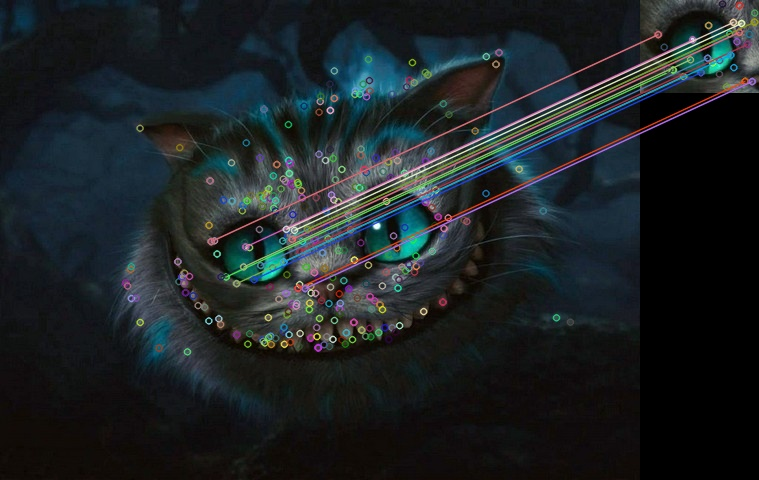
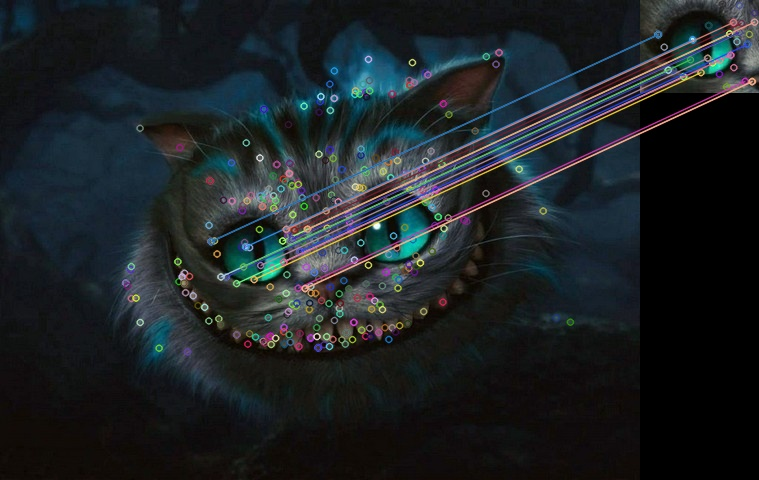
finish

diff --git a/PythonComparisonImage/UI/image_classification_tab.py b/PythonComparisonImage/UI/image_classification_tab.py
@@ -1,0 +1,159 @@
+import os
+
+import cv2 as cv
+import numpy as np
+from PyQt5.QtWidgets import (QWidget, QVBoxLayout, QHBoxLayout, QPushButton, QListWidget, QLabel, QFileDialog,
+                             QMessageBox, QComboBox)
+
+import src.open_cv.ncc as ncc
+import src.open_cv.sift as sift
+import src.open_cv.ssim as ssim
+import src.open_cv.image_hash as image_hash
+
+
+class ImageClassificationTab(QWidget):
+    def __init__(self):
+        super().__init__()
+        self.patternsList = None
+        self.originalsList = None
+        self.patternsLayout = None
+        self.originalsLayout = None
+        self.layout = None
+        self.algorithmSelector = None
+        self.originalImages = []
+        self.patterns = {}
+        self.selectedAlgorithm = 'NCC'
+        self.initUI()
+
+    def initUI(self):
+        self.layout = QHBoxLayout()
+
+        self.originalsLayout = QVBoxLayout()
+        self.patternsLayout = QVBoxLayout()
+
+        self.originalsList = QListWidget()
+        self.patternsList = QListWidget()
+
+        self.originalsList.clicked.connect(self.onOriginalClicked)
+
+        addOriginalBtn = QPushButton("+")
+        addOriginalBtn.setFixedSize(30, 30)
+        addOriginalBtn.clicked.connect(self.addOriginalImage)
+
+        originalsHeaderLayout = QHBoxLayout()
+        originalsHeaderLayout.addWidget(QLabel("Оригиналы"))
+        originalsHeaderLayout.addWidget(addOriginalBtn)
+        originalsHeaderLayout.addStretch()
+
+        addPatternBtn = QPushButton("+")
+        addPatternBtn.setFixedSize(30, 30)
+
+        self.algorithmSelector = QComboBox()
+        self.algorithmSelector.addItems(['NCC', 'SSIM', 'SIFT', 'Hash'])
+        self.algorithmSelector.currentTextChanged.connect(self.algorithmChanged)
+        self.algorithmSelector.setFixedWidth(100)
+
+        patternsHeaderLayout = QHBoxLayout()
+        patternsHeaderLayout.addWidget(QLabel("Паттерны"))
+        patternsHeaderLayout.addWidget(addPatternBtn)
+        patternsHeaderLayout.addWidget(self.algorithmSelector)
+        patternsHeaderLayout.addStretch()
+
+        addPatternBtn.clicked.connect(self.addPatternImage)
+
+        self.originalsLayout.addLayout(originalsHeaderLayout)
+        self.originalsLayout.addWidget(self.originalsList)
+
+        self.patternsLayout.addLayout(patternsHeaderLayout)
+        self.patternsLayout.addWidget(self.patternsList)
+
+        self.layout.addLayout(self.originalsLayout)
+        self.layout.addLayout(self.patternsLayout)
+
+        self.setLayout(self.layout)
+
+    def addOriginalImage(self):
+        fileName, _ = QFileDialog.getOpenFileName(self, "Выберите изображение", "",
+                                                  "Image Files (*.png *.jpg *.jpeg *.bmp)")
+        if fileName:
+            relativePath = os.path.relpath(fileName)
+            self.originalImages.append(relativePath)
+            self.originalsList.addItem(relativePath)
+            self.patterns[relativePath] = []
+
+    def onOriginalClicked(self):
+        self.patternsList.clear()
+        currentItem = self.originalsList.currentItem()
+        if currentItem:
+            patterns = self.patterns.get(currentItem.text(), [])
+            self.patternsList.addItems(patterns)
+
+    def addPatternImage(self):
+        currentItem = self.originalsList.currentItem()
+        if not currentItem:
+            QMessageBox.warning(self, "Внимание", "Сначала выберите оригинальное изображение.")
+            return
+        fileName, _ = QFileDialog.getOpenFileName(self, "Выберите паттерн", "",
+                                                  "Image Files (*.png *.jpg *.jpeg *.bmp)")
+        if fileName:
+            relativePath = os.path.relpath(fileName)
+            patternValue = self.calculatePatternValue(currentItem.text(), relativePath)
+            patternLabel = f"{relativePath} - {patternValue:.2f}"
+            patterns = self.patterns.get(currentItem.text(), [])
+            self.patterns[currentItem.text()].append(patternLabel)
+            patterns.sort(key=lambda x: float(x.split(' - ')[1]), reverse=True)
+            self.patterns[currentItem.text()] = patterns
+            self.updatePatternListDisplay()
+
+    def algorithmChanged(self, value):
+        self.selectedAlgorithm = value
+        self.recalculatePatterns()
+
+    def calculatePatternValue(self, originalImage, patternPath):
+        originalImageItem = cv.imread(originalImage)
+        originalHeight, originalWidth = originalImageItem.shape[:2]
+        patternItem = cv.imread(patternPath)
+        patternHeight, patternWidth = patternItem.shape[:2]
+
+        if self.selectedAlgorithm == 'NCC':
+            if originalWidth >= patternWidth and originalHeight >= patternHeight:
+                return ncc.match(originalImageItem, patternItem)
+            else:
+                return 0
+        elif self.selectedAlgorithm == 'SIFT':
+            return sift.match(originalImageItem, patternItem)
+        elif self.selectedAlgorithm == 'SSIM':
+            if originalWidth == patternWidth and originalHeight == patternHeight:
+                return ssim.match(originalImageItem, patternItem)
+            else:
+                return 0
+        elif self.selectedAlgorithm == 'Hash':
+            a_hash = np.abs(image_hash.average_hash(originalImage) - image_hash.average_hash(patternPath))
+            p_hash = np.abs(image_hash.perceptual_hash(originalImage) - image_hash.perceptual_hash(patternPath))
+            d_hash = np.abs(image_hash.difference_hash(originalImage) - image_hash.difference_hash(patternPath))
+            w_hash = np.abs(image_hash.wavelet_hash(originalImage) - image_hash.wavelet_hash(patternPath))
+            c_hash = np.abs(image_hash.color_hash(originalImage) - image_hash.color_hash(patternPath))
+            cr_hash = np.abs(image_hash.crop_resistant_hash(originalImage) - image_hash.crop_resistant_hash(patternPath))
+            return np.mean([a_hash, p_hash, d_hash, w_hash, c_hash, cr_hash])
+        else:
+            raise ValueError("Неподдерживаемый алгоритм")
+
+    def recalculatePatterns(self):
+        for originalImagePath, patterns in self.patterns.items():
+            updatedPatterns = []
+            for patternPath in patterns:
+                pattern = patternPath.split(' - ')[0]
+                patternValue = self.calculatePatternValue(originalImagePath, pattern)
+                updatedPatterns.append((pattern, patternValue))
+            updatedPatterns.sort(key=lambda x: x[1], reverse=True)
+            self.patterns[originalImagePath] = [f"{pattern} - {patternValue:.2f}" for pattern, patternValue in
+                                                updatedPatterns]
+
+        self.updatePatternListDisplay()
+
+    def updatePatternListDisplay(self):
+        self.patternsList.clear()
+        currentItem = self.originalsList.currentItem()
+        if currentItem:
+            patterns = self.patterns.get(currentItem.text(), [])
+            self.patternsList.addItems(patterns)

diff --git a/PythonComparisonImage/src/open_cv/sift.py b/PythonComparisonImage/src/open_cv/sift.py
@@ -1,11 +1,7 @@
 import cv2 as cv
+import numpy as np
 
-
-def match(image_path, pattern_path):
-    # Загрузка изображений
-    image1 = cv.imread(image_path)
-    image2 = cv.imread(pattern_path)
-
+def match(image1, image2):
     # Преобразование изображений в оттенки серого
     gray_image1 = cv.cvtColor(image1, cv.COLOR_BGR2GRAY)
     gray_image2 = cv.cvtColor(image2, cv.COLOR_BGR2GRAY)
@@ -23,13 +19,20 @@ def match(image_path, pattern_path):
     # Сопоставление дескрипторов
     matches = matcher.match(descriptors1, descriptors2)
 
-    # Сортировка сопоставлений по расстоянию между дескрипторами
-    matches = sorted(matches, key=lambda x: x.distance)
+    # Вычисление дисперсии длин векторов
+    variance_length = np.var([np.linalg.norm(desc) for desc in descriptors1])
+
+    # Вычисление корня из дисперсии
+    std_dev_length = np.sqrt(variance_length)
+
+    # Подсчет количества совпадающих дескрипторов
+    matching_descriptors = [matchItem for matchItem in matches if matchItem.distance < std_dev_length]
 
     # Вычисление схожести изображений
-    similarity = len(matches) / max(len(keypoints1), len(keypoints2))
+    similarity = len(matching_descriptors) / max(len(keypoints1), len(keypoints2))
 
     return similarity
+
 
 
 def show_difference(image1_path, image2_path):

diff --git a/PythonComparisonImage/UI/main_app.py b/PythonComparisonImage/UI/main_app.py
@@ -1,5 +1,6 @@
-from PyQt5.QtWidgets import QMainWindow, QTabWidget, QStatusBar, QVBoxLayout
+from PyQt5.QtWidgets import QMainWindow, QTabWidget
 
+import UI.image_classification_tab as classification_tab
 import UI.image_comparison_tab as comparison_tab
 
 
@@ -20,3 +21,6 @@ class MainApp(QMainWindow):
 
         image_comparison_tab = comparison_tab.ImageComparisonTab()
         tab_widget.addTab(image_comparison_tab, "Тестирование алгоритмов")
+
+        image_classification_tab = classification_tab.ImageClassificationTab()
+        tab_widget.addTab(image_classification_tab, "Классификация изображений")
